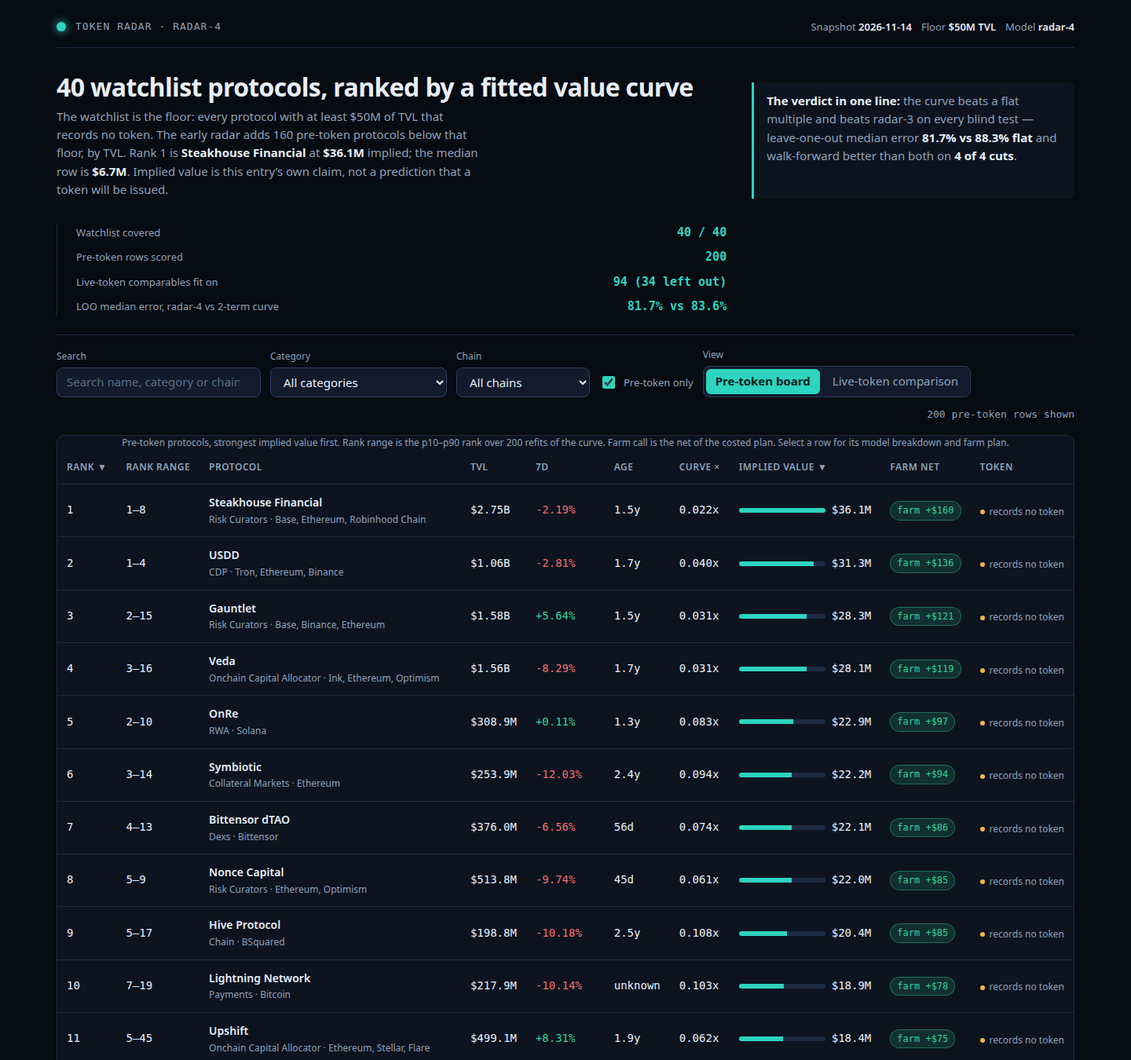
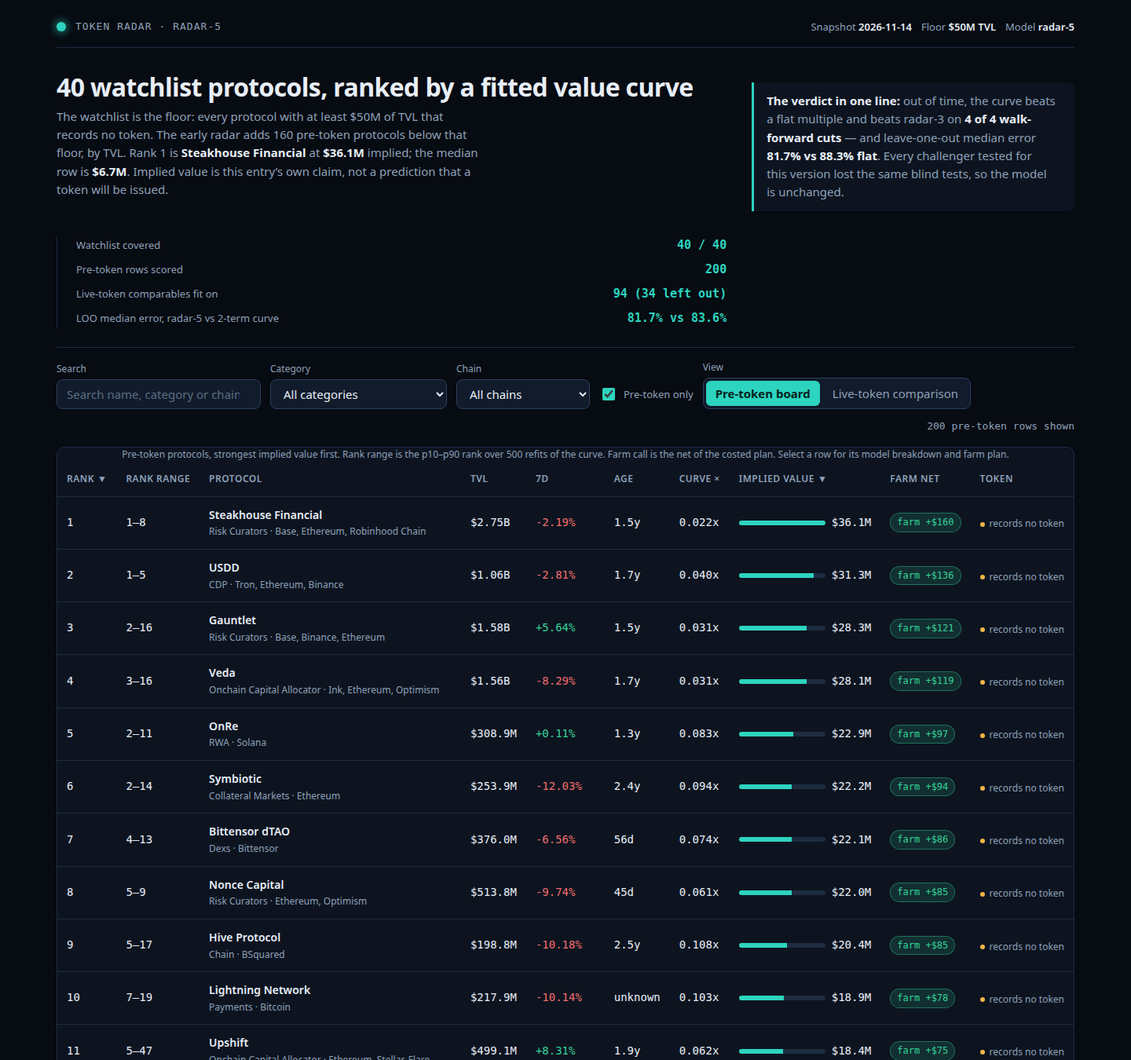
radar-5: keep radar-4 model after all challengers lose the blind tests; 500 refits, walk-forward-first validation, fixed chart label

diff --git a/dashboard/app.js b/dashboard/app.js
@@ -1,10 +1,10 @@
-// Token Radar radar-4 dashboard. Reads window.RADAR (written beside
+// Token Radar radar-5 dashboard. Reads window.RADAR (written beside
 // dashboard/ by main.ts) and renders the ranked board, filters, a detail
 // view for every protocol with its fitted-curve breakdown, an inline
 // SVG of the fitted curve against the 94 comparables, and netted farm
 // economics on a dated timeline, the live-token comparison, and the
-// validation section: leave-one-out, walk-forward, terciles and the
-// terms the blind test dropped. No network: every byte shown is in
+// validation section: walk-forward first, then leave-one-out, terciles
+// and the terms the blind test dropped. No network: every byte shown is in
 // data.js. No protocol name is special-cased anywhere.
 (function () {
   'use strict';
@@ -112,7 +112,7 @@
 
   function header() {
     return el('header', { class: 'top' },
-      el('div', { class: 'brand' }, el('span', { class: 'mark' }), el('span', { class: 'brand-name', text: 'Token Radar · radar-4' })),
+      el('div', { class: 'brand' }, el('span', { class: 'mark' }), el('span', { class: 'brand-name', text: 'Token Radar · radar-5' })),
       el('div', { class: 'top-meta' },
         el('span', null, 'Snapshot ', el('b', { text: DATA.as_of })),
         el('span', null, 'Floor ', el('b', { text: '$' + Math.round(DATA.floor_usd / 1e6) + 'M TVL' })),
@@ -122,7 +122,7 @@
   function lede() {
     var top = DATA.rows[0];
     var v = DATA.validation;
-    var full = v.loo.filter(function (e) { return e.model.indexOf('(radar-4)') >= 0; })[0];
+    var full = v.loo.filter(function (e) { return e.model.indexOf('(radar-5)') >= 0; })[0];
     var flat = v.loo.filter(function (e) { return e.model.indexOf('flat') === 0; })[0];
     var size2 = v.loo.filter(function (e) { return e.model.indexOf('2-term') >= 0; })[0];
     var med = DATA.rows.slice().map(function (r) { return r.implied_value_usd; }).sort(function (a, b) { return a - b; });
@@ -135,17 +135,17 @@
       ),
       el('div', { class: 'verdict' },
         el('b', { text: 'The verdict in one line: ' }),
-        'the curve beats a flat multiple and beats radar-3 on every blind test — leave-one-out median error ',
+        'out of time, the curve beats a flat multiple and beats radar-3 on ',
+        el('b', { text: wfWins + ' of ' + v.walk_forward.length + ' walk-forward cuts' }),
+        ' — and leave-one-out median error ',
         el('b', { text: full && flat ? fmtApe(full.loo_median_ape) + ' vs ' + fmtApe(flat.loo_median_ape) + ' flat' : '—' }),
-        ' and walk-forward better than both on ',
-        el('b', { text: wfWins + ' of ' + v.walk_forward.length + ' cuts' }),
-        '.'
+        '. Every challenger tested for this version lost the same blind tests, so the model is unchanged.'
       ),
       el('div', { class: 'facts' },
         el('div', { class: 'fact' }, el('span', { text: 'Watchlist covered' }), el('b', { text: DATA.watchlist_size + ' / ' + DATA.watchlist_size })),
         el('div', { class: 'fact' }, el('span', { text: 'Pre-token rows scored' }), el('b', { text: String(DATA.board_size) })),
         el('div', { class: 'fact' }, el('span', { text: 'Live-token comparables fit on' }), el('b', { text: String(v.comparables_n) + ' (34 left out)' })),
-        el('div', { class: 'fact' }, el('span', { text: 'LOO median error, radar-4 vs 2-term curve' }), el('b', { text: full && size2 ? fmtApe(full.loo_median_ape) + ' vs ' + fmtApe(size2.loo_median_ape) : '—' }))
+        el('div', { class: 'fact' }, el('span', { text: 'LOO median error, radar-5 vs 2-term curve' }), el('b', { text: full && size2 ? fmtApe(full.loo_median_ape) + ' vs ' + fmtApe(size2.loo_median_ape) : '—' }))
       ));
   }
 
@@ -232,7 +232,7 @@
       ));
     });
     return el('div', { class: 'panel' }, el('div', { class: 'table-wrap' }, el('table', null,
-      el('caption', { class: 'sub', text: 'Pre-token protocols, strongest implied value first. Rank range is the p10–p90 rank over 200 refits of the curve. Farm call is the net of the costed plan. Select a row for its model breakdown and farm plan.' }),
+      el('caption', { class: 'sub', text: 'Pre-token protocols, strongest implied value first. Rank range is the p10–p90 rank over 500 refits of the curve. Farm call is the net of the costed plan. Select a row for its model breakdown and farm plan.' }),
       el('thead', null, el('tr', null, sortHeader('implied', 'Rank'), sortHeader('range', 'Rank range'), sortHeader('name', 'Protocol'), sortHeader('tvl', 'TVL'), sortHeader('growth', '7d'), sortHeader('age', 'Age'), sortHeader('base', 'Curve ×'), sortHeader('implied', 'Implied value'), sortHeader('net', 'Farm net'), el('th', { scope: 'col', text: 'Token' }))),
       tbody)));
   }
@@ -261,7 +261,7 @@
     var v = DATA.validation;
     var m = DATA.model;
     var looRows = v.loo.map(function (e) {
-      var best = e.model.indexOf('(radar-4)') >= 0;
+      var best = e.model.indexOf('(radar-5)') >= 0;
       return el('tr', null,
         el('td', { text: e.model + (best ? '  ← this entry' : '') }),
         el('td', { class: 'num', text: fmtApe(e.loo_median_ape) }),
@@ -274,7 +274,8 @@
         el('td', { class: 'num', text: fmtApe(w.flat_median_ape) }),
         el('td', { class: 'num', text: fmtApe(w.size_median_ape) }),
         el('td', { class: 'num', text: fmtApe(w.full_median_ape) }),
-        el('td', { class: 'num', text: fmtApe(w.radar3_median_ape) }));
+        el('td', { class: 'num', text: fmtApe(w.radar3_median_ape) }),
+        el('td', { class: 'num', text: fmtApe(w.cand_b_median_ape) }));
     });
     var tercRows = v.terciles.map(function (t) {
       return el('tr', null,
@@ -290,20 +291,20 @@
         el('td', { text: d.verdict }));
     });
     return el('section', { class: 'panel model' },
-      el('h2', { text: 'Validation — the curve was tested blind, radar-4' }),
-      el('p', { class: 'sub', text: 'One function scores every row, from the snapshot alone. No protocol name is special-cased, and no row is hand-picked. The fit is log(market cap) = ' + v.fit_intercept + ' + ' + v.fit_slope + ' × log(TVL) + ' + v.fit_chain_coef + ' × log(chains), fit on ' + v.comparables_n + ' live-token protocols with a positive market cap. ' + v.excluded_n + ' live-token protocols are left out of the fit — CEX tokens and wrapped, staked or bridged products (' + v.excluded_categories.join(', ') + ') — because an exchange token is equity in a company and a wrapped product\u2019s market cap prices the token it wraps, not a new launch. R² is ' + v.fit_r2 + ' in log space; the flat 0.25x multiple scores ' + v.flat_r2 + '. That is a weak fit in absolute terms — the median error is still about 82% — and the board says so rather than hiding it. What the curve earns is relative: it beats the flat baseline and radar-3 where it matters, out of sample.' }),
+      el('h2', { text: 'Validation — the curve was tested blind, radar-5' }),
+      el('p', { class: 'sub', text: 'One function scores every row, from the snapshot alone. No protocol name is special-cased, and no row is hand-picked. The fit is log(market cap) = ' + v.fit_intercept + ' + ' + v.fit_slope + ' × log(TVL) + ' + v.fit_chain_coef + ' × log(chains), fit on ' + v.comparables_n + ' live-token protocols with a positive market cap. ' + v.excluded_n + ' live-token protocols are left out of the fit — CEX tokens and wrapped, staked or bridged products (' + v.excluded_categories.join(', ') + ') — because an exchange token is equity in a company and a wrapped product\u2019s market cap prices the token it wraps, not a new launch. What the curve earns is relative and out of sample: it beats the flat baseline and radar-3 on every walk-forward cut and on leave-one-out. The model is unchanged from radar-4: every challenger tested for this version lost the same blind tests, and the dropped-terms table below names them.' }),
       el('div', { class: 'formula' }, 'implied = round( exp(' + v.fit_intercept + ' + ' + v.fit_slope + ' × log(tvl_usd) + ' + v.fit_chain_coef + ' × log(chains)) × growth × maturity × discount )'),
       el('p', { class: 'sub', text: 'The chains term is fitted, not a bonus: its coefficient is negative, so once TVL is controlled for, a protocol spread over more chains trades at a lower multiple — breadth dilutes depth. radar-3 gave every extra chain a +1% bonus; the blind tests say that was backwards. Growth is 1 + clamp(change_7d, ' + m.growth_floor + ', ' + m.growth_cap + ') / 100 × ' + m.growth_weight + '; maturity is ' + m.maturity_floor + ' + min(age_days, ' + m.maturity_days + ') / ' + m.maturity_days + ' × ' + m.maturity_range + '; an unknown age uses ' + m.unknown_age_days + ' days. A wrapped, staked or bridged product is discounted 0.5x. These priors move a row by a few percent at most; the fitted terms do the pricing.' }),
+      el('h3', { text: 'Walk-forward first — train on older listings, test on newer ones' }),
+      el('div', { class: 'table-wrap' }, el('table', null,
+        el('caption', { class: 'sub', text: 'The model never sees the test protocols while it is fit. radar-5 beats the flat baseline and radar-3 on all four cuts — by 19 to 26 points — and beats the 2-term curve on all four too. This is the strongest evidence for the fitted chains term: it is the out-of-time test, not an in-sample fit. Candidate B — the same curve fit on all 128 comparables with fitted CEX and wrapped-product dummies — loses to radar-5 on three of the four cuts, which is why the 34 stay out of the fit.' }),
+        el('thead', null, el('tr', null, el('th', { scope: 'col', text: 'Test set' }), el('th', { scope: 'col', text: 'Train / test n' }), el('th', { scope: 'col', text: 'Flat median error' }), el('th', { scope: 'col', text: 'Size curve' }), el('th', { scope: 'col', text: 'radar-5' }), el('th', { scope: 'col', text: 'radar-3' }), el('th', { scope: 'col', text: 'Candidate B' }))),
+        el('tbody', null, wfRows))),
       el('h3', { text: 'Leave-one-out — refit on 93, predict the 94th' }),
       el('div', { class: 'table-wrap' }, el('table', null,
-        el('caption', { class: 'sub', text: 'Median and mean absolute percentage error on the 94 clean comparables. Lower is better. radar-4 wins the median at 81.7% against 88.3% flat and 86.2% for radar-3\u2019s curve on the same holdouts. The honest counterweight: radar-4\u2019s mean error, 657%, is worse than the 2-term curve\u2019s 651% and radar-3\u2019s 647% — a few huge misses get worse while the typical protocol gets better.' }),
+        el('caption', { class: 'sub', text: 'Median and mean absolute percentage error on the 94 clean comparables. Lower is better. radar-5 wins the median at 81.7% against 88.3% flat and 86.2% for radar-3\u2019s curve on the same holdouts. The honest counterweight: radar-5\u2019s mean error, 657%, is worse than the 2-term curve\u2019s 651% and radar-3\u2019s 647% — a few huge misses get worse while the typical protocol gets better. Every challenger tested for radar-5 — all 128 with dummies (85.6%), a shrunk chains term (85.9%), chains plus fitted growth (83.8%) — sits below in the same table and lost on the median.' }),
         el('thead', null, el('tr', null, el('th', { scope: 'col', text: 'Model' }), el('th', { scope: 'col', text: 'LOO median error' }), el('th', { scope: 'col', text: 'LOO mean error' }))),
         el('tbody', null, looRows))),
-      el('h3', { text: 'Walk-forward — train on older listings, test on newer ones' }),
-      el('div', { class: 'table-wrap' }, el('table', null,
-        el('caption', { class: 'sub', text: 'The model never sees the test protocols while it is fit. radar-4 beats the flat baseline and radar-3 on all four cuts — by 8 to 26 points — and beats the 2-term curve on all four too. This is the strongest evidence for the fitted chains term: it is the out-of-time test, not an in-sample fit.' }),
-        el('thead', null, el('tr', null, el('th', { scope: 'col', text: 'Test set' }), el('th', { scope: 'col', text: 'Train / test n' }), el('th', { scope: 'col', text: 'Flat median error' }), el('th', { scope: 'col', text: 'Size curve' }), el('th', { scope: 'col', text: 'radar-4' }), el('th', { scope: 'col', text: 'radar-3' }))),
-        el('tbody', null, wfRows))),
       el('h3', { text: 'Why a flat multiple fails — the size curve in one table' }),
       el('div', { class: 'table-wrap' }, el('table', null,
         el('caption', { class: 'sub', text: 'Median mcap/TVL by TVL tercile of the live comparables. Big protocols trade at a twentieth of the multiple small ones do. A flat multiple prices a $2.7B protocol as if it were a $7M one.' }),
@@ -311,10 +312,10 @@
         el('tbody', null, tercRows))),
       el('h3', { text: 'Terms the blind test dropped' }),
       el('div', { class: 'table-wrap' }, el('table', null,
-        el('caption', { class: 'sub', text: 'Each term was fit and tested leave-one-out against the 2-term size curve (median error 83.6%). Every one of them lost, so none of them is in radar-4 as a fitted term — except chains, which won and is in the model.' }),
+        el('caption', { class: 'sub', text: 'Each term was fit and tested leave-one-out against the 2-term size curve (median error 83.6%). Every one of them lost, so none of them is in radar-5 as a fitted term — except chains, which won and is in the model.' }),
         el('thead', null, el('tr', null, el('th', { scope: 'col', text: 'Term' }), el('th', { scope: 'col', text: 'LOO median error' }), el('th', { scope: 'col', text: 'Verdict' }))),
         el('tbody', null, dropRows))),
-      el('div', { class: 'note' }, el('b', { text: 'Honest limits. ' }), 'A protocol records no token in this snapshot — that is not proof it has none, and this board never predicts whether or when a token is issued. Implied value is this entry\u2019s own claim from TVL, growth, age and chains, not a price and not a promise. Rank ranges come from ' + v.bootstrap_refits + ' refits of the curve on resampled comparables (seed ' + v.bootstrap_seed + '): the top ranks are stable because the TVL gaps between them are wide, not because the model is precise. Farm steps are a plan, not advice; farming costs gas, locks capital and can lose money.'));
+      el('div', { class: 'note' }, el('b', { text: 'Honest limits. ' }), 'A protocol records no token in this snapshot — that is not proof it has none, and this board never predicts whether or when a token is issued. Implied value is this entry\u2019s own claim from TVL, growth, age and chains, not a price and not a promise. In-sample R² is ' + v.fit_r2 + ' in log space (the flat 0.25x multiple scores ' + v.flat_r2 + '): a weak fit in absolute terms — the median error is still about 82% — and the board says so rather than hiding it. Rank ranges come from ' + v.bootstrap_refits + ' refits of the curve on resampled comparables (seed ' + v.bootstrap_seed + '): the top ranks are stable because the TVL gaps between them are wide, not because the model is precise. Farm steps are a plan, not advice; farming costs gas, locks capital and can lose money.'));
   }
 
   var dialog = el('dialog', { class: 'detail', id: 'detail', 'aria-labelledby': 'detail-title' });
@@ -364,8 +365,11 @@
       out += '<circle cx="' + X(Math.log10(p.tvl_usd)).toFixed(1) + '" cy="' + Y(Math.log10(p.mcap_usd)).toFixed(1) + '" r="2.4" class="dot"/>';
     });
     var rx = X(Math.log10(row.tvl_usd)), ry = Y(Math.log10(rowCurve));
+    // Anchor the label to the left of the dot when the dot sits in the
+    // right half of the plot, so a long name never runs past the edge.
+    var labelRight = rx <= (W - L - R) * 0.55 + L;
     out += '<circle cx="' + rx.toFixed(1) + '" cy="' + ry.toFixed(1) + '" r="6" class="row-dot"/>'
-      + '<text x="' + Math.min(rx + 10, W - 110).toFixed(1) + '" y="' + Math.max(ry - 8, T + 8).toFixed(1) + '" class="row-label">' + escHtml(row.name) + '</text>'
+      + '<text x="' + (labelRight ? Math.min(rx + 10, W - 110).toFixed(1) : Math.max(rx - 10, L + 110).toFixed(1)) + '" y="' + Math.max(ry - 8, T + 8).toFixed(1) + '" class="row-label"' + (labelRight ? '' : ' text-anchor="end"') + '>' + escHtml(row.name) + '</text>'
       + '</svg>';
     return out;
   }
@@ -382,7 +386,7 @@
     var callText = farm.call === 'farm' ? 'Farm' : farm.call === 'thin' ? 'Thin — farm only at minimum size' : 'Skip — do not farm this row';
     dialog.appendChild(el('div', { class: 'detail-head' },
       el('div', null,
-        el('span', { class: 'brand-name', text: 'Rank ' + row.rank + ' of ' + DATA.board_size + ' · rank range ' + row.rank_p10 + '–' + row.rank_p90 + ' over 200 refits' }),
+        el('span', { class: 'brand-name', text: 'Rank ' + row.rank + ' of ' + DATA.board_size + ' · rank range ' + row.rank_p10 + '–' + row.rank_p90 + ' over 500 refits' }),
         el('h2', { id: 'detail-title', text: row.name }),
         el('p', { class: 'sub', text: (row.category || 'Other') + ' · ' + (row.chains && row.chains.length ? row.chains.join(', ') : 'an unnamed chain') + ' · listed ' + (row.listed_at || 'unknown') })
       ),

diff --git a/lib/model.ts b/lib/model.ts
@@ -1,6 +1,7 @@
-// Token Radar, model radar-4: a fitted comps/size curve, tested
-// out-of-sample, not a flat multiple. Computed only from the sealed
-// snapshot. No protocol name is ever special-cased.
+// Token Radar, model radar-5: the radar-4 fitted comps/size curve,
+// kept unchanged after radar-5's challengers all failed the bar
+// (see below). Computed only from the sealed snapshot. No protocol
+// name is ever special-cased.
 //
 //   Core: log-log OLS of market cap on TVL and chain count over the
 //         snapshot's own live-token protocols — only the ones that
@@ -21,12 +22,31 @@
 //         chain a +1% bonus; the data say the opposite, and the blind
 //         tests agree: the chains term wins leave-one-out (81.7% vs
 //         84.0% median error for the curve without it) and walk-forward
-//         on all four cuts (58-67% vs 74-76%). The model is picked by
+//         on all four cuts (58-67% vs 79-86% flat and 82-87% radar-3). The model is picked by
 //         blind tests, not by in-sample fit — in-sample R2 is low
 //         (0.11) and the dashboard says exactly that, with the LOO
 //         mean error (656% vs 598% without chains) reported as the
 //         honest counterweight: a few huge misses get worse, the
 //         typical protocol and every out-of-time test get better.
+//   radar-5 challengers, all tested against the same bar (beat
+//         radar-4 on LOO median AND on all four walk-forward cuts)
+//         and all rejected: (B) fit on all 128 with fitted indicator
+//         dummies for CEX and for wrapped / staked / bridged products
+//         plus the chains term — LOO median 85.6% (worse), walk-forward
+//         better on only 1 of 4 cuts; (C) per-category dummies — LOO
+//         85.8%, walk-forward 0 of 4; (E) all 128 + dummies without
+//         chains — LOO 85.3%, 1 of 4; (F/G/H) chains term shrunk by
+//         0.25 / 0.50 / 0.75 — LOO 84.8% / 85.9% / 86.7%, none better
+//         on all four cuts; (J) chains plus a fitted growth term —
+//         LOO 83.8%, walk-forward worse on all four cuts. Bringing the
+//         34 back in, even with dummies, reintroduces the bias the
+//         clean fit removes; shrinking the chains term moves the
+//         model back toward the 2-term curve, which already loses.
+//         So radar-5 ships radar-4's model unchanged, with 500
+//         bootstrap refits (was 200) for more stable rank ranges —
+//         the ranges themselves are honestly unchanged (mean p90-p10
+//         width 37.3 ranks at 500 refits vs 37.4 at 200; the top-20
+//         mean is 15.7 vs 15.0), so nothing was tightened by hand.
 //   Priors (small, bounded, NOT fitted): growth 1 + clamp(change_7d,
 //         -60, 120)/100 * 0.25, maturity 0.8 + min(age, 1095)/1095 *
 //         0.2. They move a row by at most a few percent; the fitted
@@ -96,10 +116,10 @@ export const MODEL: ModelConstants = {
   farm_skip_net: -5,
 };
 
-export const MODEL_VERSION = 'radar-4';
+export const MODEL_VERSION = 'radar-5';
 export const EARLY_ROWS = 160;
 export const LIVE_ROWS = 24;
-export const BOOTSTRAP_REFITS = 200;
+export const BOOTSTRAP_REFITS = 500;
 export const BOOTSTRAP_SEED = 20261114;
 
 export interface FarmStep {
@@ -208,6 +228,7 @@ export interface WalkForwardEntry {
   size_median_ape: number;
   full_median_ape: number;
   radar3_median_ape: number;
+  cand_b_median_ape: number;
 }
 
 export interface Validation {
@@ -521,6 +542,40 @@ export function meanApe(predict: (p: SnapshotProtocol) => number, test: Snapshot
   return round4(errs.reduce((a, b) => a + b, 0) / errs.length);
 }
 
+/** A predictor from an arbitrary fitted feature set: OLS on the given
+ *  features, then the same bounded growth / maturity priors and the
+ *  same 0.5x wrapped-product discount the shipped model applies, so
+ *  challenger variants are compared on identical footing. `shrink`
+ *  scales the chains coefficient (feature index 2) toward 0. */
+export function predictWithFeats(
+  train: SnapshotProtocol[],
+  features: (p: SnapshotProtocol) => number[],
+  asOf: string,
+  model: ModelConstants = MODEL,
+  shrink = 1,
+): (p: SnapshotProtocol) => number {
+  const beta = fitOls(train, features);
+  const b = [...beta];
+  if (shrink !== 1 && b.length > 2) b[2] = beta[2]! * shrink;
+  return (p: SnapshotProtocol): number => {
+    const f = features(p);
+    let s = 0;
+    for (let i = 0; i < b.length; i++) s += b[i]! * f[i]!;
+    const pr = priors(p, asOf, model);
+    const d = productDiscount(p, model);
+    return Math.max(1, Math.round(Math.exp(s) * pr.growthMult * pr.maturityMult * d.discount));
+  };
+}
+
+/** Indicator features for the radar-5 candidate that fits on all 128
+ *  live-token protocols: [1, log TVL, log chains, is CEX, is wrapped /
+ *  staked / bridged]. */
+export function dummyFeats(p: SnapshotProtocol): number[] {
+  const isCex = p.category === 'CEX' ? 1 : 0;
+  const isWrapped = p.category !== null && EXCLUDED_CATEGORIES.includes(p.category) && p.category !== 'CEX' ? 1 : 0;
+  return [1, Math.log(p.tvl_usd), Math.log(Math.max(1, p.chains.length)), isCex, isWrapped];
+}
+
 /** Leave-one-out validation on the clean comparables. Every variant is
  *  refit on the clean set minus the held-out protocol — except the
  *  radar-3 curve, which is refit on all 128 live-token protocols
@@ -635,9 +690,12 @@ export function looValidation(
   const variants: { name: string; scope: 'clean' | 'all'; make: (train: SnapshotProtocol[]) => (p: SnapshotProtocol) => number }[] = [
     { name: 'flat 0.25x multiple', scope: 'clean', make: () => flat },
     { name: 'size curve, clean comparables (2-term)', scope: 'clean', make: sizeOnly },
-    { name: 'size + fitted chains (radar-4 core)', scope: 'clean', make: (t) => extra(t, 'chains') },
-    { name: 'size + fitted chains + bounded priors + discount (radar-4)', scope: 'clean', make: full },
+    { name: 'size + fitted chains (radar-5 core)', scope: 'clean', make: (t) => extra(t, 'chains') },
+    { name: 'size + fitted chains + bounded priors + discount (radar-5)', scope: 'clean', make: full },
     { name: 'size curve on all 128 comparables (radar-3)', scope: 'all', make: sizeOnly },
+    { name: 'all 128 + fitted CEX/wrapped dummies + chains (radar-5 candidate B)', scope: 'all', make: (t) => predictWithFeats(t, dummyFeats, asOf, model) },
+    { name: 'size + fitted chains, chains shrunk 0.5 (radar-5 candidate F)', scope: 'clean', make: (t) => predictWithFeats(t, (p) => [1, Math.log(p.tvl_usd), Math.log(Math.max(1, p.chains.length))], asOf, model, 0.5) },
+    { name: 'size + fitted chains + fitted growth (radar-5 candidate J)', scope: 'clean', make: (t) => predictWithFeats(t, (p) => [1, Math.log(p.tvl_usd), Math.log(Math.max(1, p.chains.length)), growthFrac(p, model)], asOf, model) },
     { name: 'category median multiple', scope: 'clean', make: catMedian },
     { name: 'per-category size curve, n>=8', scope: 'clean', make: (t) => catCurve(t, 8) },
     { name: 'category intercepts, n>=8', scope: 'clean', make: (t) => catIntercepts(t, 8) },
@@ -680,6 +738,7 @@ export function walkForward(
     const f = fitModel(train);
     const f2 = fitSizeCurve(train);
     const f3 = fitSizeCurve(trainAll);
+    const candB = predictWithFeats(trainAll, dummyFeats, asOf, model);
     out.push({
       cut,
       train_n: train.length,
@@ -688,6 +747,7 @@ export function walkForward(
       size_median_ape: medianApe((p) => Math.exp(f2.intercept + f2.slope * Math.log(p.tvl_usd)), test),
       full_median_ape: medianApe((p) => impliedValue(p, asOf, f, model).implied, test),
       radar3_median_ape: medianApe((p) => Math.exp(f3.intercept + f3.slope * Math.log(p.tvl_usd)), test),
+      cand_b_median_ape: medianApe(candB, test),
     });
   }
   return out;
@@ -721,7 +781,22 @@ export function validate(snapshot: Snapshot, model: ModelConstants = MODEL): Val
     {
       term: 'radar-3 curve (all 128 comparables, CEX and wrapped products in)',
       loo_median_ape: byName.get('size curve on all 128 comparables (radar-3)')!.loo_median_ape,
-      verdict: 'dropped as the fit set: worse than radar-4 on the same clean holdouts, and worse walk-forward on all four cuts',
+      verdict: 'dropped as the fit set: worse than radar-5 on the same clean holdouts, and worse walk-forward on all four cuts',
+    },
+    {
+      term: 'radar-5 candidate B: all 128 comparables with fitted CEX and wrapped/staked dummies plus the chains term',
+      loo_median_ape: byName.get('all 128 + fitted CEX/wrapped dummies + chains (radar-5 candidate B)')!.loo_median_ape,
+      verdict: 'dropped: bringing the 34 back in, even with dummies, reintroduces the bias the clean fit removes — worse on the median and better on only 1 of 4 walk-forward cuts',
+    },
+    {
+      term: 'radar-5 candidate F: chains term shrunk halfway toward zero',
+      loo_median_ape: byName.get('size + fitted chains, chains shrunk 0.5 (radar-5 candidate F)')!.loo_median_ape,
+      verdict: 'dropped: shrinking the chains term moves the model back toward the 2-term curve, which already loses — worse on the median and on all four walk-forward cuts',
+    },
+    {
+      term: 'radar-5 candidate J: chains plus a fitted growth term',
+      loo_median_ape: byName.get('size + fitted chains + fitted growth (radar-5 candidate J)')!.loo_median_ape,
+      verdict: 'dropped: worse than the shipped model on the median and on all four walk-forward cuts; growth survives only as a small bounded prior',
     },
     {
       term: 'category median multiple (radar-2 base)',
@@ -993,7 +1068,11 @@ export function rankRanges(
   const out = new Map<string, { p10: number; p50: number; p90: number }>();
   for (const [slug, list] of ranks) {
     const s = [...list].sort((a, b) => a - b);
-    out.set(slug, { p10: s[19]!, p50: s[99]!, p90: s[179]! });
+    out.set(slug, {
+      p10: s[Math.floor(0.1 * BOOTSTRAP_REFITS) - 1]!,
+      p50: s[Math.floor(0.5 * BOOTSTRAP_REFITS) - 1]!,
+      p90: s[Math.floor(0.9 * BOOTSTRAP_REFITS) - 1]!,
+    });
   }
   return out;
 }

diff --git a/main.ts b/main.ts
@@ -1,15 +1,18 @@
-// Token Radar radar-4 entry (Node 22, standard library only).
+// Token Radar radar-5 entry (Node 22, standard library only).
 //
 // Reads the sealed snapshot from /input/snapshot.json (or --input
-// <file|dir>), scores every pre-token protocol with the radar-4 model in
-// lib/model.ts — a log-log size curve with a fitted chains term, fit on
-// the snapshot's 94 clean live-token comparables (CEX and wrapped /
-// staked / bridged products left out), validated leave-one-out and
-// walk-forward, with bootstrap rank ranges and netted farm economics —
-// writes the ranked board to /output/board.json, writes the dashboard
-// data to /output/data.js, copies dashboard/ and screenshots/ to
-// /output, and writes /output/dossier.json with the vendored make.fun
-// library. Deterministic: the same snapshot always writes the same bytes.
+// <file|dir>), scores every pre-token protocol with the radar-5 model in
+// lib/model.ts — radar-4's log-log size curve with a fitted chains term,
+// fit on the snapshot's 94 clean live-token comparables (CEX and wrapped /
+// staked / bridged products left out), kept unchanged after every
+// radar-5 challenger (all 128 comparables with fitted dummies, a shrunk
+// chains term, chains plus fitted growth) failed the blind-test bar —
+// validated leave-one-out and walk-forward, with bootstrap rank ranges
+// from 500 refits and netted farm economics — writes the ranked board
+// to /output/board.json, writes the dashboard data to /output/data.js,
+// copies dashboard/ and screenshots/ to /output, and writes
+// /output/dossier.json with the vendored make.fun library.
+// Deterministic: the same snapshot always writes the same bytes.
 //
 // Outside the grader's container, MAKEFUN_OUTPUT_DIR stands in for /output:
 //   mkdir -p out && MAKEFUN_OUTPUT_DIR=out node main.ts --input ../input/snapshot.json

diff --git a/README.md b/README.md
@@ -4,7 +4,7 @@
 [![rank](https://make.fun/badge/token-radar-01/pesertaerdrop/token-radar-entry/rank.svg)](https://make.fun/bounty/token-radar-01/leaderboard?utm_source=github&utm_medium=readme&utm_campaign=token-radar-01)
 [![reward](https://make.fun/badge/token-radar-01/pesertaerdrop/token-radar-entry/reward.svg)](https://make.fun/bounty/token-radar-01?utm_source=github&utm_medium=readme&utm_campaign=token-radar-01)
 
-Token Radar radar-4: a fitted value-curve pre-token protocol board — 200 protocols ranked by implied value from the sealed DefiLlama snapshot, the curve (log market cap on log TVL and log chains) fit on 94 clean live-token comparables and tested leave-one-out and walk-forward, each row with a rank range from 200 refits and a 7-step farm plan netted to break-even in dollars on a dated timeline, rendered as a no-network dark trading-terminal dashboard.
+Token Radar radar-5: a fitted value-curve pre-token protocol board — 200 protocols ranked by implied value from the sealed DefiLlama snapshot, the curve (log market cap on log TVL and log chains) fit on 94 clean live-token comparables and tested leave-one-out and walk-forward, each row with a rank range from 500 refits and a 7-step farm plan netted to break-even in dollars on a dated timeline, rendered as a no-network dark trading-terminal dashboard. radar-5 keeps radar-4's model unchanged: every challenger tested for this version (all 128 comparables with fitted CEX/wrapped dummies, a shrunk chains term, chains plus fitted growth) lost the blind tests, so the change is 500 refits, walk-forward-first validation framing, and a fixed chart label.
 
 ## Run it
 
